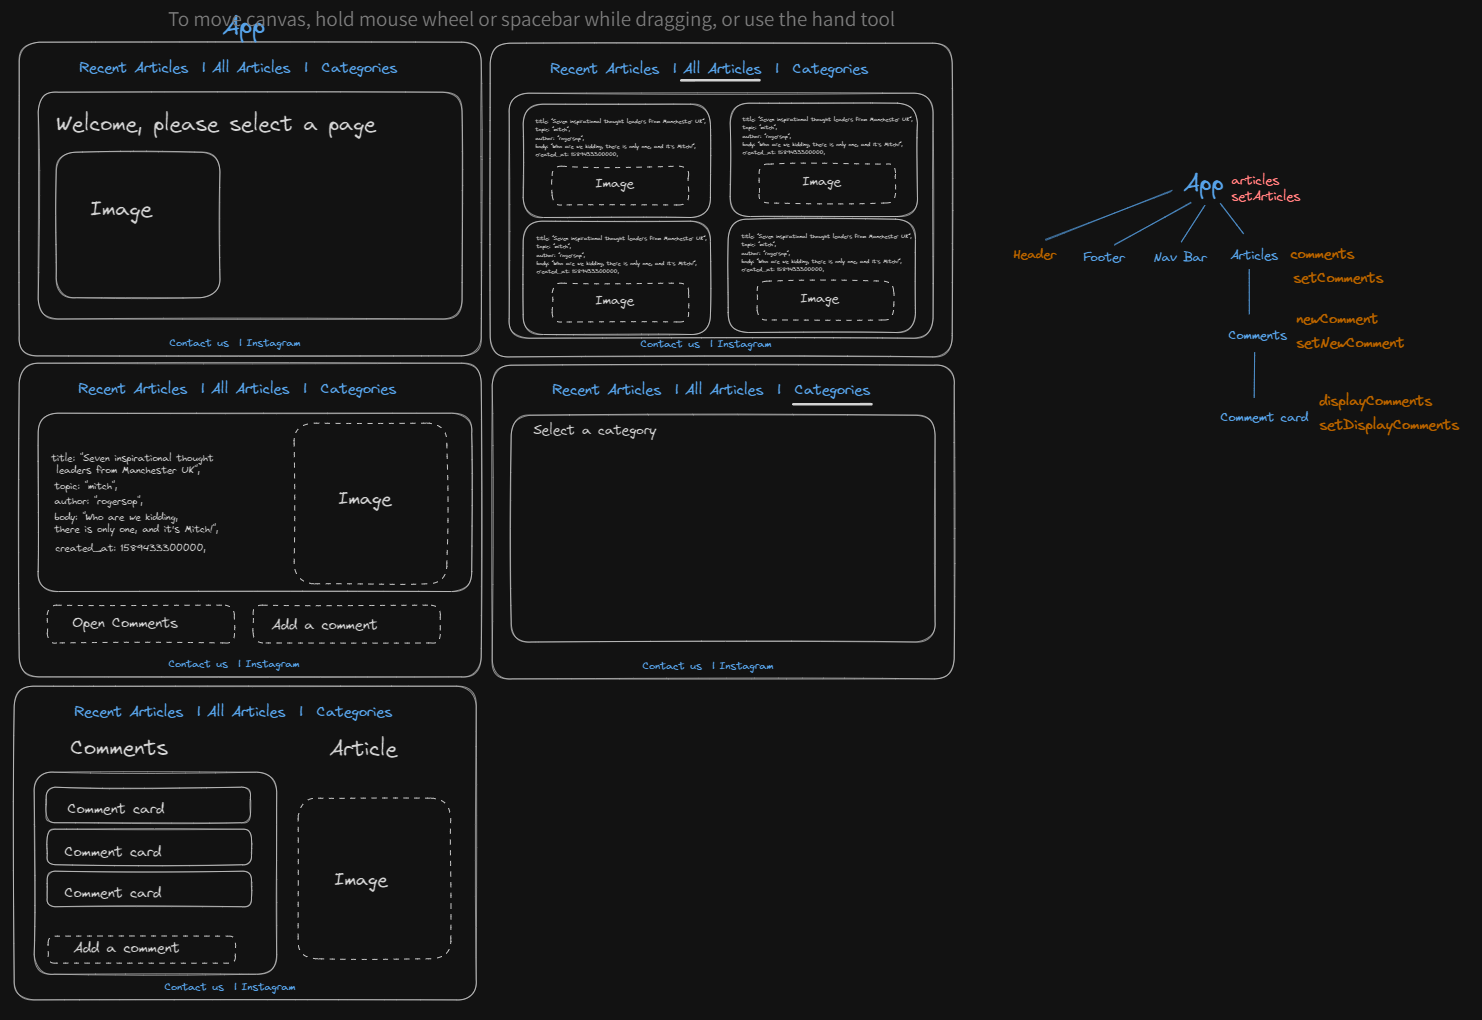
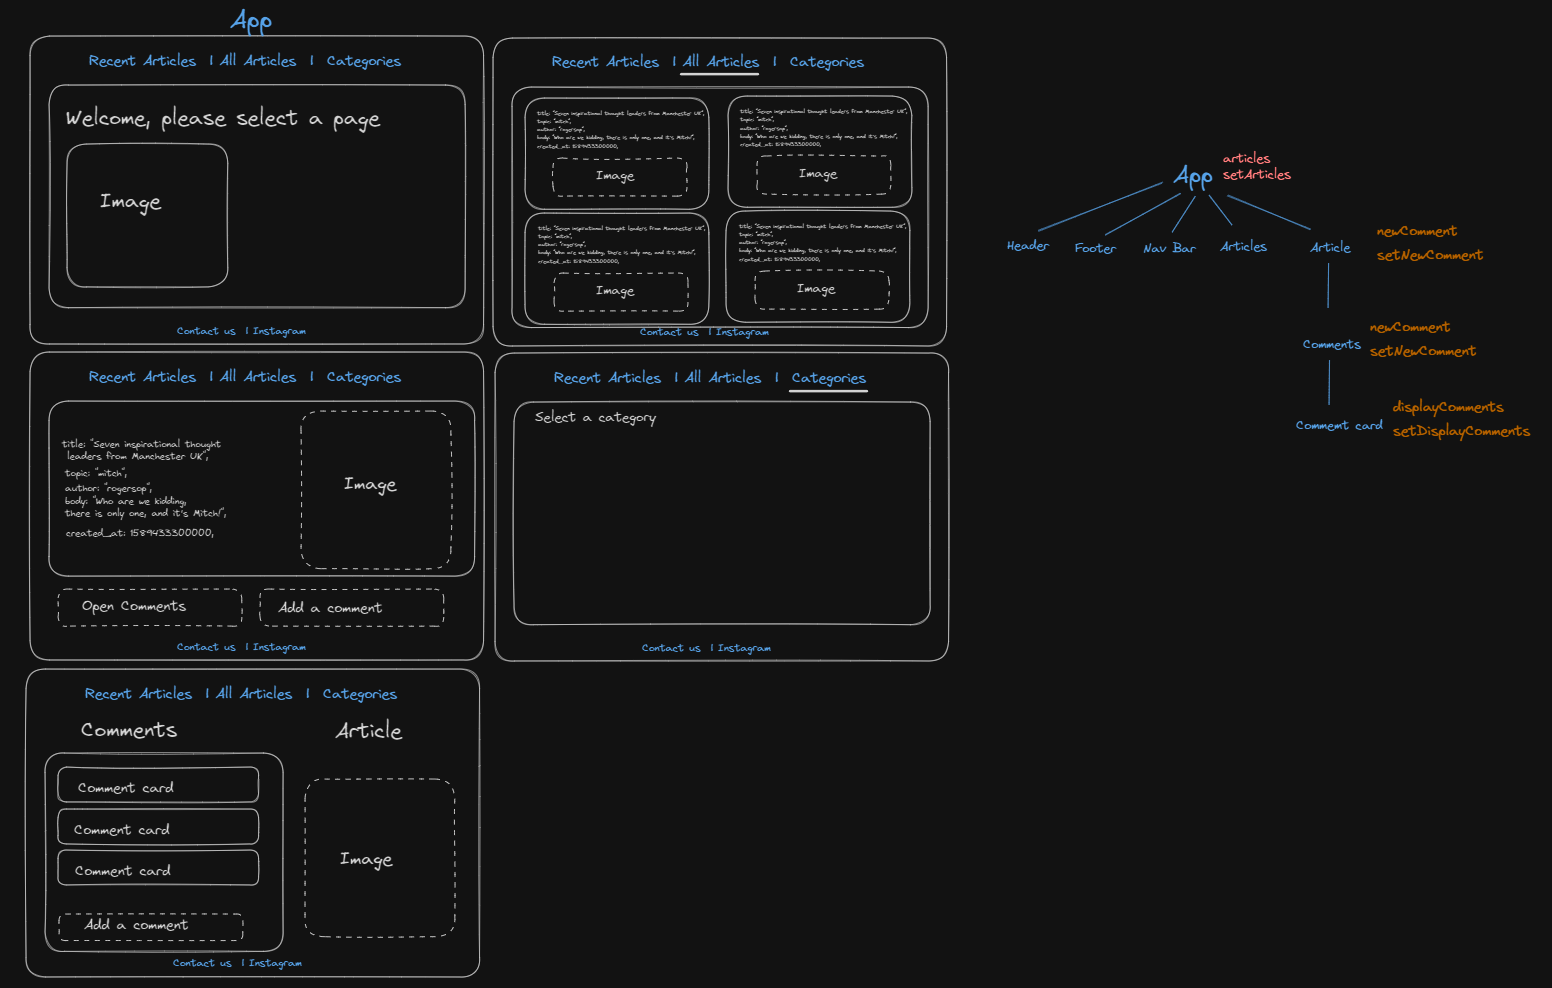
styling changes

diff --git a/src/App.css b/src/App.css
@@ -3,7 +3,68 @@
   margin: 0 auto;
   padding: 2rem;
   text-align: center;
-  color: aquamarine;
+  color: rgb(51, 63, 224);
+}
+
+html {
+  box-sizing: border-box;
+  background-color: #fff;
+  font-size: 16px;
+  letter-spacing: 1px;
+}
+body {
+  margin: 0;
+  min-height: 100vh;
+  color: aliceblue;
+  background-color: #1a1a1a;
+  font-family: system-ui, -apple-system, BlinkMacSystemFont, "Segoe UI", Roboto,
+    Oxygen, Ubuntu, Cantarell, "Open Sans", "Helvetica Neue", sans-serif;
+}
+
+.header {
+  display: flex;
+  justify-content: center;
+  align-items: center;
+  font-size: 2.5rem;
+}
+
+nav {
+  display: flex;
+  justify-content: space-around;
+  align-items: center;
+}
+
+nav li {
+  display: inline-block;
+  padding: 0 10px;
+  justify-content: space-around;
+  color: #577cea;
+  font-size: 1.2rem;
+}
+
+nav li:hover {
+  color: #cdcdcd;
+  transform: scale(1.1);
+}
+
+.item {
+  display: flex;
+  flex-direction: column;
+  justify-content: space-around;
+  align-items: center;
+  width: 30%;
+  background-color: rgba(213, 209, 209, 0.2);
+  border-radius: 10px;
+  margin-bottom: 2rem;
+}
+
+.item:hover {
+  transform: scale(1.01);
+  cursor: pointer;
+}
+
+.item img {
+  width: 100%;
 }
 
 .logo {

diff --git a/src/App.jsx b/src/App.jsx
@@ -1,10 +1,11 @@
 import './App.css'
+import Home from './components/Home'
 import Header from './components/Header'
 import NavBar from './components/NavBar'
 import Categories from './components/Categories'
 import Articles from './components/Articles'
+import Footer from './components/Footer'
 import { Routes, Route } from 'react-router-dom'
-import Home from './components/Home'
 
 function App() {
 
@@ -16,6 +17,7 @@ function App() {
       <Route path="/" element = {<Home />} /> 
       <Route path="/Categories" element = {<Categories />} /> 
       <Route path="/Articles" element = {<Articles />} /> 
+      <Route path="/Footer" element = {<Footer />} /> 
     </Routes>
     </>
   )

diff --git a/src/components/Articles.jsx b/src/components/Articles.jsx
@@ -2,7 +2,7 @@ import { Link } from "react-router-dom"
 
 const Articles = () => {
     return (
-        <h1 className = 'articles'>All Articles</h1>
+        <h2 className = 'articles'>All Articles</h2>
     )
 }
 

diff --git a/src/components/Footer.jsx b/src/components/Footer.jsx
@@ -1,0 +1,9 @@
+import { Link } from "react-router-dom"
+
+const Footer = () => {
+    return (
+        <footer className = 'footer'>Contact us   |   Instagram</footer>
+    )
+}
+
+export default Footer
